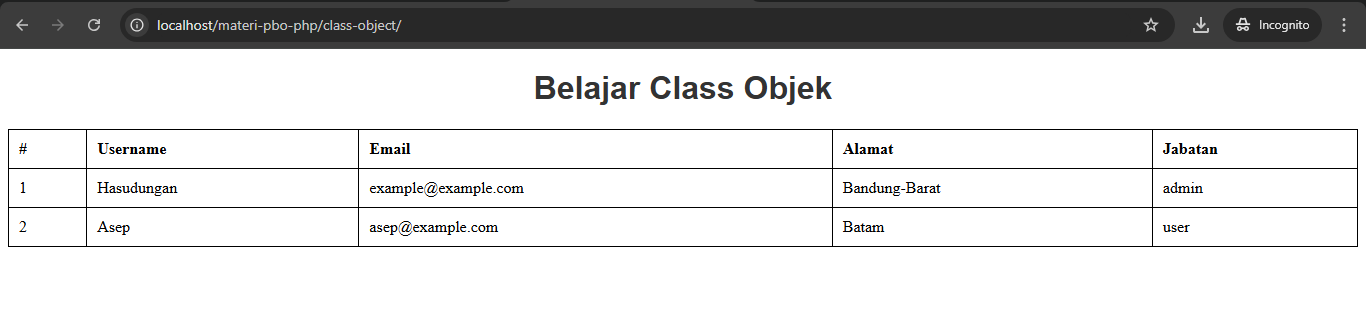
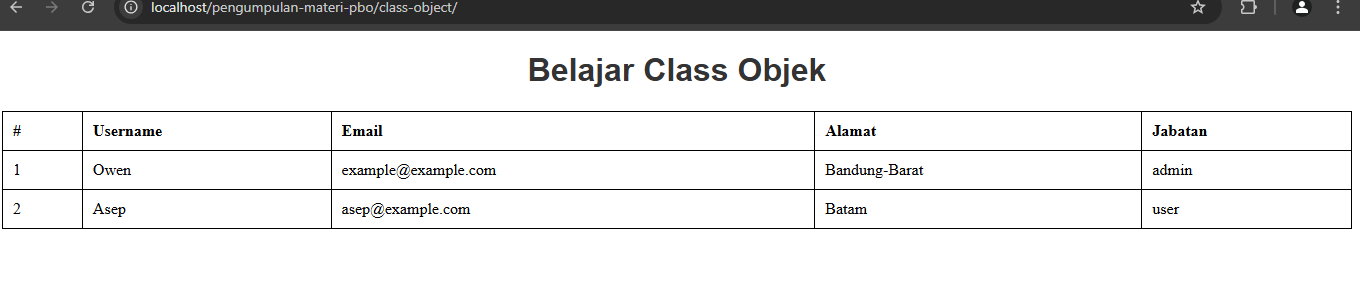
duhaudhauhdfaef

Changed region(s): [[0.0, 0.3541, 1.0, 0.7967], [0.0, 0.0, 1.0, 0.3246]]

diff --git a/constractor/index.php b/constractor/index.php
@@ -1,0 +1,33 @@
+<html lang="en">
+<head>
+    <meta charset="UTF-8">
+    <meta name="viewport" content="width=device-width, initial-scale=1.0">
+    <title>BELAJAR CONSTUCTOR</title>
+</head>
+<body>
+    <h1>Data User</H1>
+    <?php
+    //memangil/menggunakan class user.php
+    require'User.php';
+    //melakukan intstansiasi class-objek
+   $user = new user(2,"ambatoll","admin123@gmail.com","bawah pusat","admin");
+
+   //memberi/menimpa nilai  assignment value
+   $user->id=2;
+    $user->name="wenganteng";
+    $user->email="admin123@gmail.com";
+    $user->address="bawah pusat";
+    $user->role="admin";
+
+   ?>
+
+   <ul>
+    <li><?php echo $user->id ?></li>
+    <li><?php echo $user->name?></li>
+    <li><?php echo $user->email?></li>
+    <li><?php echo $user->address?></li>
+    <li><?php echo $user->role?></li>
+   </ul>
+    
+</body>
+</html>

diff --git a/inheritance/Index.php b/inheritance/Index.php
@@ -4,9 +4,9 @@ require_once 'ChildClass.php';
 
 // Contoh membuat beberapa objek ChildClass
 $users = [
-    new ChildClass(1, "John Doe", "john.doe@example.com", "123 Main St", "Admin", 81245546776),
-    new ChildClass(2, "Jane Smith", "jane.smith@example.com", "456 Elm St", "User", 81245546776),
-    new ChildClass(3, "Alice Johnson", "alice.johnson@example.com", "789 Maple St", "Moderator", 81245546776),
+    new ChildClass(1, "akang", "akang@example.com", "123 Main St", "Admin", 81245546776),
+    new ChildClass(2, "mamuu", "mamuu@example.com", "456 Elm St", "User", 81245546776),
+    new ChildClass(3, "acep", "acep@example.com", "789 Maple St", "Moderator", 81245546776),
 ];
 ?>
 

diff --git a/constractor/user.php b/constractor/user.php
@@ -1,0 +1,47 @@
+<?php
+class user{
+    // melakukan registrasi properti global
+   public $id,$name,$email,$address,$role;
+
+//    // construct nilai default
+//    function __construct(){
+//     $this->id=1;
+//     $this->name="kachau";
+//     $this->email="kachau@example.com";
+//     $this->address="batam";
+//     $this->role="admin";
+
+
+
+      
+   //    }
+
+
+    // constructor dengan variable parameter 
+     public function __construct($id,$name,$email,$address,$role){
+    $this->id=$id;
+    $this->name=$name;
+    $this->email=$email;
+    $this->address=$address;
+    $this->role=$role;
+    
+   
+
+
+      
+   }
+
+
+
+
+
+
+
+
+
+
+
+}
+
+
+?> 

diff --git a/constructor/User.php b/constructor/User.php
@@ -13,14 +13,14 @@
         $listUser = [  // membuat array 2 dimensi sebagai tempat memberi nilai list dataUser
             [
                 'id'        => 1,
-                'name'      => 'Hasudungan',
+                'name'      => 'wenzler',
                 'email'     => 'admin@example.com',
                 'address'   => 'Batam',
                 'role'      => 'admin'
             ],
             [
                 'id'        => 2,
-                'name'      => 'Asep',
+                'name'      => 'asoy',
                 'email'     => 'testUser@example.com',
                 'address'   => 'Bandung',
                 'role'      => 'user'

diff --git a/static-properthies/Index.php b/static-properthies/Index.php
@@ -10,7 +10,7 @@
         class ParentClass 
         {
             // deklarasi properti global
-            public static $judul = " hy, saya properti static dari" . __CLASS__;
+            public static $judul = " hy saya abg ganteng di sekolah ini" . __CLASS__;
 
             public static function display()
             {
@@ -20,7 +20,7 @@
 
         class ChildClass extends ParentClass
         {
-            public static $judul = " hy, saya properti static dari" . __CLASS__;
+            public static $judul = " hy saya abg ganteng di sekolah ini" . __CLASS__;
 
             public static function display()
             {

diff --git a/class-object/User.php b/class-object/User.php
@@ -11,7 +11,7 @@
         $user2  = new User();
 
         $user1->id = 1;
-        $user1->user_name = "Hasudungan";
+        $user1->user_name = "Owen";
         $user1->email = "example@example.com";
         $user1->address = "Bandung-Barat";
         $user1->role = "admin";
